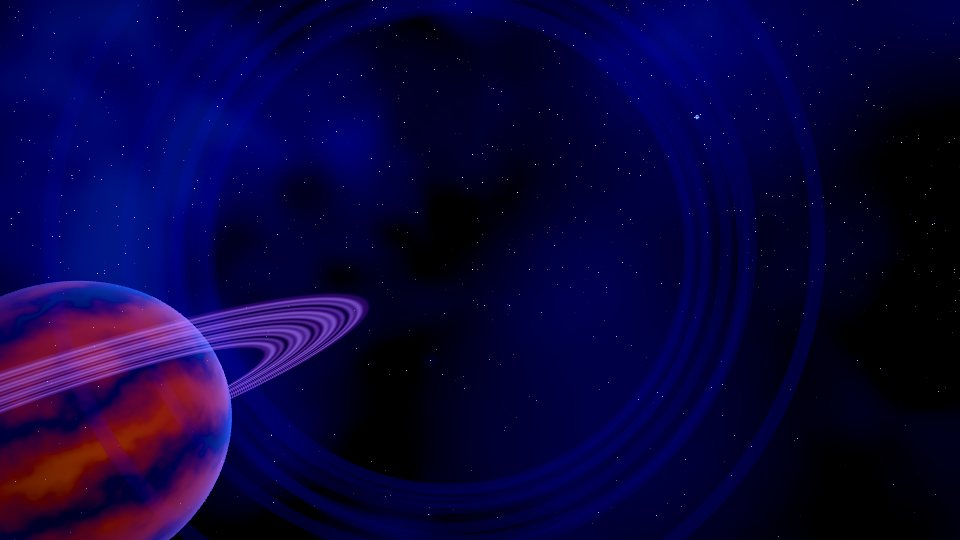
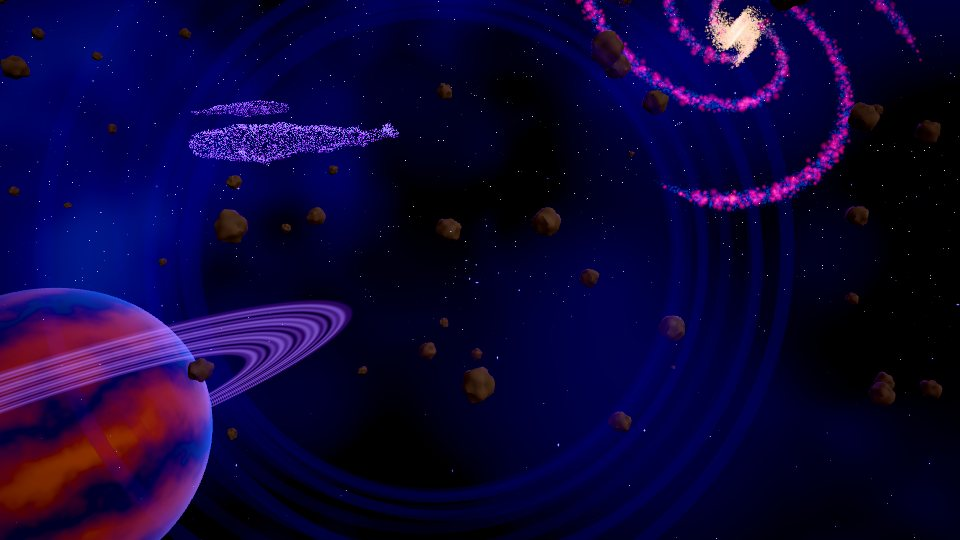
Voyage across all twelve worlds; thumbnails for every world
Four areas (First Light, Open Skies, Under Pressure, Far Reaches) with three
legs each; four starter worlds open, the rest unlock through their legs.
Generated world artwork; e2e updated for the new journey.

diff --git a/e2e/voyage.spec.ts b/e2e/voyage.spec.ts
@@ -35,35 +35,35 @@ test.describe('voyage', () => {
 
     await page.getByTestId('area-first-light').click();
     await expect.poll(() => hooks<string>(page, 'h.shell.session?.status'), { timeout: 20_000 }).toBe('running');
-    await expect(page.getByTestId('hud-voyage')).toContainText('Leg 1 of 3: Luminous Tide');
+    await expect(page.getByTestId('hud-voyage')).toContainText('Leg 1 of 12: Luminous Tide');
     const plan = await hooks<{ stage: string; endLines: number; level: number }[]>(page, 'h.shell.voyage.plan.legs.map((l) => ({ stage: l.stage, endLines: l.endLines, level: l.level }))');
-    expect(plan.map((l) => l.stage)).toEqual(['luminous-tide', 'ember-foundry', 'celestial-drift']);
+    expect(plan.map((l) => l.stage)).toEqual(['luminous-tide', 'ancient-garden', 'frozen-kingdom', 'alpine-horizon', 'moving-sands', 'enchanted-wilderness', 'the-abyss', 'ember-foundry', 'ember-core', 'northern-lights', 'future-nights', 'celestial-drift']);
 
     // Reach the first leg's goal with a real line clear: the next world arrives on a bar line.
     await setUpOneLineClear(page, (plan[0] as { endLines: number }).endLines - 1);
     await page.keyboard.press('Space');
-    await expect(page.getByTestId('hud-voyage')).toContainText('Leg 2 of 3: Ember Foundry', { timeout: 5000 });
+    await expect(page.getByTestId('hud-voyage')).toContainText('Leg 2 of 12: Ancient Garden', { timeout: 5000 });
     await expect.poll(() => hooks<number>(page, 'h.shell.session.engine.level')).toBeGreaterThanOrEqual((plan[1] as { level: number }).level);
-    await expect.poll(() => hooks<string | null>(page, 'h.shell.stageManager.activeId'), { timeout: 15_000 }).toBe('ember-foundry');
-    await expect.poll(() => hooks<string | null>(page, 'h.shell.audio.stageId'), { timeout: 15_000 }).toBe('ember-foundry');
+    await expect.poll(() => hooks<string | null>(page, 'h.shell.stageManager.activeId'), { timeout: 15_000 }).toBe('ancient-garden');
+    await expect.poll(() => hooks<string | null>(page, 'h.shell.audio.stageId'), { timeout: 15_000 }).toBe('ancient-garden');
     // The board carried over the transition.
     expect(await hooks<string>(page, 'h.shell.session.status')).toBe('running');
 
     // Jump to the last leg and finish the journey.
-    const total = (plan[2] as { endLines: number }).endLines;
+    const total = (plan[11] as { endLines: number }).endLines;
     await setUpOneLineClear(page, total - 1);
     await page.waitForTimeout(200);
-    await expect(page.getByTestId('hud-voyage')).toContainText('Leg 3 of 3: Celestial Drift', { timeout: 5000 });
+    await expect(page.getByTestId('hud-voyage')).toContainText('Leg 12 of 12: Deep Cosmos', { timeout: 5000 });
     await setUpOneLineClear(page, total - 1);
     await page.keyboard.press('Space');
     await expect(page.getByTestId('results-screen')).toBeVisible({ timeout: 15_000 });
     await expect(page.getByTestId('results-screen')).toContainText('Voyage complete');
-    await expect(page.getByTestId('results-legs')).toHaveText('3 of 3');
+    await expect(page.getByTestId('results-legs')).toHaveText('12 of 12');
     await expect(page.getByTestId('results-unlocked')).toContainText('Ember Foundry');
-    await expect(page.getByTestId('results-unlocked')).toContainText('Celestial Drift');
+    await expect(page.getByTestId('results-unlocked')).toContainText('Deep Cosmos');
     const progress = await hooks<{ legs: string[]; areas: string[] }>(page, '({ legs: h.progressStore.getState().progress.voyage.completedLegs, areas: h.progressStore.getState().progress.voyage.completedAreas })');
-    expect(progress.legs.sort()).toEqual(['celestial-drift', 'ember-foundry', 'luminous-tide']);
-    expect(progress.areas.length).toBe(3);
+    expect(progress.legs.length).toBe(12);
+    expect(progress.areas.length).toBe(4);
 
     // The unlocks persist: the worlds are open in world select and every area can be a start.
     await page.getByTestId('results-menu').click();

diff --git a/content/stages/northern-lights/music/main.ts b/content/stages/northern-lights/music/main.ts
@@ -50,7 +50,7 @@ export default composition({
       parts: {
         warm: hold({ octave: 3, voicing: 'open', vel: 0.45 }),
         pad: hold({ octave: 3, voicing: 'spread', vel: 0.38, every: 2 }),
-        seq: arp({ rate: 2, octave: 5, span: 2, order: 'up', vel: 0.34 }),
+        seq: arp({ rate: 2, octave: 4, span: 2, order: 'up', vel: 0.34 }),
         sub: bassline('x...............', { octave: 1 }),
         tick: beat('..x...x...x...x.', { vel: 0.45, prob: 0.7 }),
       },
@@ -63,7 +63,7 @@ export default composition({
       chords: ['IV', 'V', 'vi', 'V'],
       parts: {
         strings: hold({ octave: 3, voicing: 'spread', vel: 0.5 }),
-        seq: arp({ rate: 1, octave: 5, span: 2, order: 'up', vel: 0.36 }),
+        seq: arp({ rate: 1, octave: 4, span: 2, order: 'up', vel: 0.36 }),
         snap: beat('....x.......x...', { fillLastBar: '..x.x.x.xxxxxxxx' }),
         riser: once({ dur: 64, vel: 0.55 }),
       },
@@ -81,7 +81,7 @@ export default composition({
         strings: hold({ octave: 3, voicing: 'open', vel: 0.46 }),
         sparkle: hold({ octave: 5, voicing: 'close', vel: 0.28, every: 2 }),
         lead: melody("5:8 6:4 5:4 | 3:8 2:8 | 4:6 3:2 2:4 1:4 | 2:16 | 5:8 1':4 7:4 | 6:8 5:8 | 4:4 3:4 2:4 3:4 | 1:16", { octave: 4, vel: 0.5 }),
-        seq: arp({ rate: 2, octave: 5, span: 2, order: 'pendulum', vel: 0.3 }),
+        seq: arp({ rate: 2, octave: 4, span: 2, order: 'pendulum', vel: 0.3 }),
         sub: bassline('x.......x.......', { octave: 1, fifths: 0.2 }),
         kick: beat('x.........x.....'),
         snap: beat('....x.......x...'),

diff --git a/e2e/stages.spec.ts b/e2e/stages.spec.ts
@@ -26,7 +26,7 @@ test('every stage loads, renders and plays', async ({ page }) => {
 
 test('stages wire their reactivity profiles with layer scopes', async ({ page }) => {
   await openMenu(page);
-  const expected: Record<string, number> = { 'luminous-tide': 8, 'celestial-drift': 6, 'ember-foundry': 5 };
+  const expected: Record<string, number> = { 'luminous-tide': 8, 'celestial-drift': 13, 'ember-foundry': 5, 'moving-sands': 10 };
   for (const [id, count] of Object.entries(expected)) {
     await page.evaluate((stage) => (window as unknown as { __PRISMFALL__: { shell: { stageManager: { show(i: string, o: unknown): Promise<boolean> } } } }).__PRISMFALL__.shell.stageManager.show(stage, { transition: 0 }), id);
     await expect.poll(() => hooks<string | undefined>(page, 'h.shell.renderSystem.environments.current?.manifest.id'), { timeout: 20_000 }).toBe(id);
